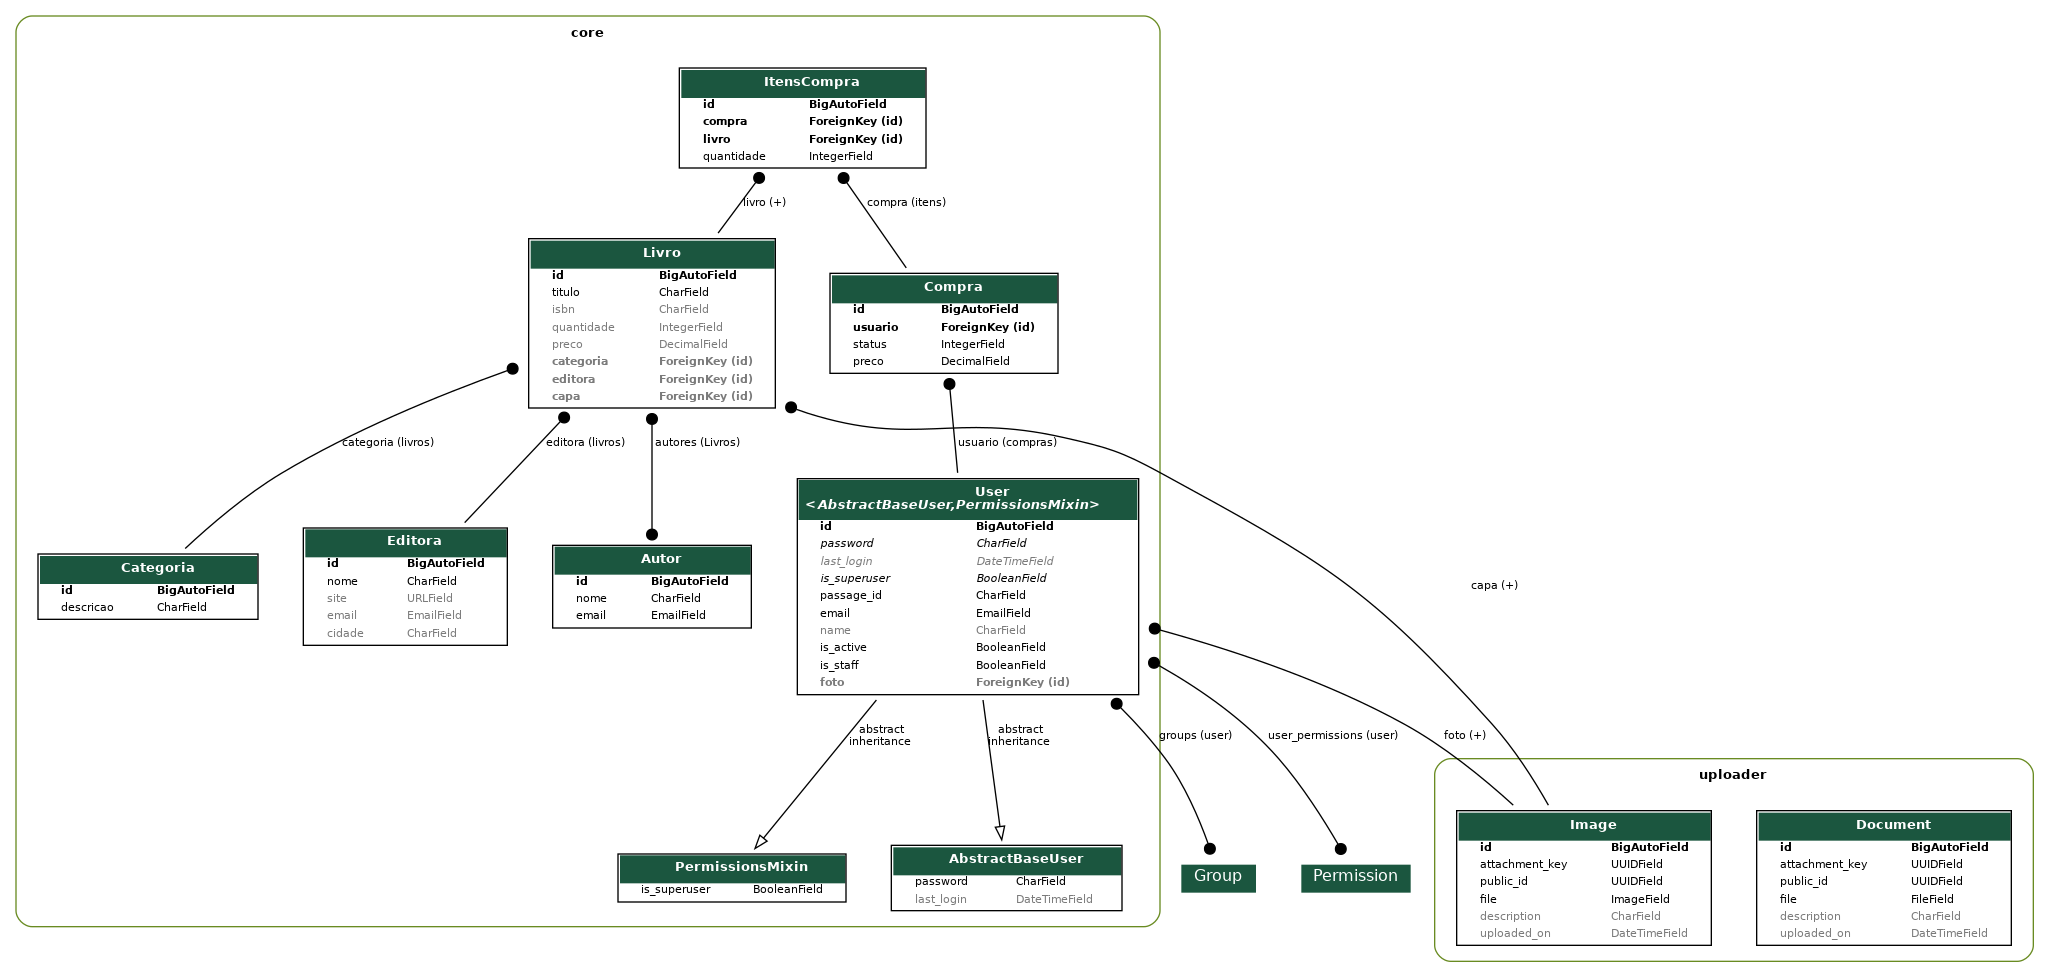
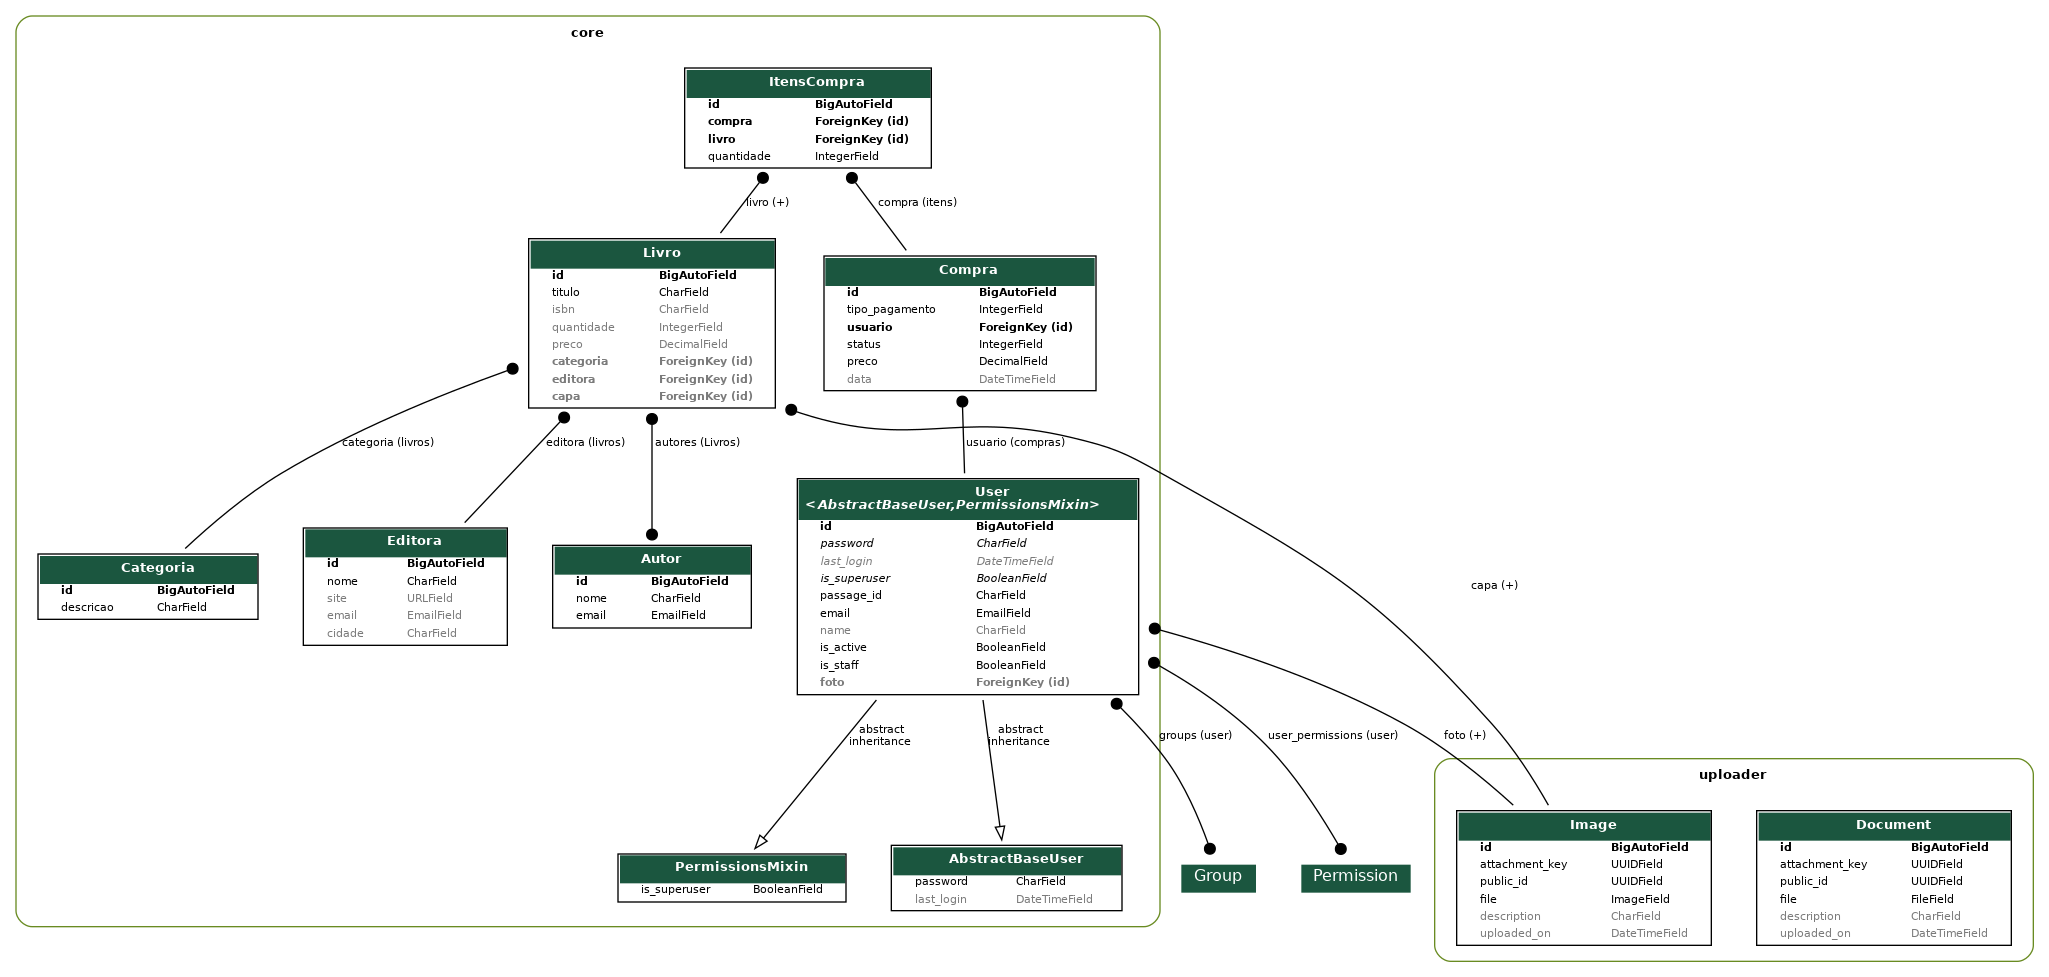
Adicionando tipo de pagamento à entidade de Compra

diff --git a/core/models/compra.py b/core/models/compra.py
@@ -5,6 +5,16 @@ from core.models import Livro
 from .user import User
 
 class Compra(models.Model):
+    class TipoPagamento(models.IntegerChoices):
+        CARTAO_CREDITO = 1, "Cartão de Crédito"
+        CARTAO_DEBITO = 2, "Cartão de Débito"
+        PIX = 3, "PIX"
+        BOLETO = 4, "Boleto"
+        TRANSFERENCIA_BANCARIA = 5, "Transferência Bancária"
+        DINHEIRO = 6, "Dinheiro"
+        OUTRO = 7, "Outro"
+    tipo_pagamento = models.IntegerField(choices=TipoPagamento.choices, default=TipoPagamento.CARTAO_CREDITO)
+
     class StatusCompra(models.IntegerChoices):
         CARRINHO = 1, "Carrinho"
         FINALIZADO = 2, "Finalizado"
@@ -14,6 +24,7 @@ class Compra(models.Model):
     usuario = models.ForeignKey(User, on_delete=models.PROTECT, related_name="compras")
     status = models.IntegerField(choices=StatusCompra.choices, default=StatusCompra.CARRINHO)
     preco = models.DecimalField(max_digits=10, decimal_places=2, default=0)
+    data = models.DateTimeField(auto_now_add=True)
 
     def __str__(self):
         return f"Compra {self.id} - {self.usuario}"

diff --git a/core/serializers/compra.py b/core/serializers/compra.py
@@ -1,4 +1,5 @@
 from cfgv import ValidationError
+from rest_framework.fields import DateTimeField
 from rest_framework.serializers import ModelSerializer
 from rest_framework.serializers import CharField, ModelSerializer
 from core.models import Compra, ItensCompra
@@ -52,11 +53,13 @@ class ItensCompraSerializer(ModelSerializer):
 
 class CompraSerializer(ModelSerializer):
     usuario = CharField(source="usuario.email", read_only=True) # inclua essa linha
-    status = CharField(source="get_status_display", read_only=True) # inclua essa linha
+    status = CharField(source="get_status_display", read_only=True)
+    data = DateTimeField(read_only=True) # inclua essa linha
+    tipo_pagamento = CharField(source="get_tipo_pagamento_display", read_only=True)
     itens = ItensCompraSerializer(many=True, read_only=True)
     class Meta:
         model = Compra
-        fields = ("id", "usuario", "status", "total", "itens")
+        fields = ("id", "usuario", "status", "total", "itens","tipo_pagamento", "data")
 
 
 class CompraCreateUpdateSerializer(ModelSerializer):

diff --git a/core/migrations/0020_compra_tipo_pagamento.py b/core/migrations/0020_compra_tipo_pagamento.py
@@ -1,0 +1,18 @@
+# Generated by Django 5.1.3 on 2024-12-18 18:11
+
+from django.db import migrations, models
+
+
+class Migration(migrations.Migration):
+
+    dependencies = [
+        ('core', '0019_compra_data'),
+    ]
+
+    operations = [
+        migrations.AddField(
+            model_name='compra',
+            name='tipo_pagamento',
+            field=models.IntegerField(choices=[(1, 'Cartão de Crédito'), (2, 'Cartão de Débito'), (3, 'PIX'), (4, 'Boleto'), (5, 'Transferência Bancária'), (6, 'Dinheiro'), (7, 'Outro')], default=1),
+        ),
+    ]

diff --git a/core/migrations/0019_compra_data.py b/core/migrations/0019_compra_data.py
@@ -1,0 +1,19 @@
+# Generated by Django 5.1.3 on 2024-12-18 18:08
+
+from django.db import migrations, models
+
+
+class Migration(migrations.Migration):
+
+    dependencies = [
+        ('core', '0018_remove_compra_data'),
+    ]
+
+    operations = [
+        migrations.AddField(
+            model_name='compra',
+            name='data',
+            field=models.DateTimeField(auto_now_add=True, default='2024-10-01 15:08:00'),
+            preserve_default=False,
+        ),
+    ]

diff --git a/core/migrations/0017_compra_data.py b/core/migrations/0017_compra_data.py
@@ -1,0 +1,19 @@
+# Generated by Django 5.1.3 on 2024-12-18 18:05
+
+from django.db import migrations, models
+
+
+class Migration(migrations.Migration):
+
+    dependencies = [
+        ('core', '0016_compra_preco'),
+    ]
+
+    operations = [
+        migrations.AddField(
+            model_name='compra',
+            name='data',
+            field=models.DateTimeField(auto_now_add=True, default='2023-10-01 00:00:00'),
+            preserve_default=False,
+        ),
+    ]

diff --git a/core/migrations/0018_remove_compra_data.py b/core/migrations/0018_remove_compra_data.py
@@ -1,0 +1,17 @@
+# Generated by Django 5.1.3 on 2024-12-18 18:07
+
+from django.db import migrations
+
+
+class Migration(migrations.Migration):
+
+    dependencies = [
+        ('core', '0017_compra_data'),
+    ]
+
+    operations = [
+        migrations.RemoveField(
+            model_name='compra',
+            name='data',
+        ),
+    ]
